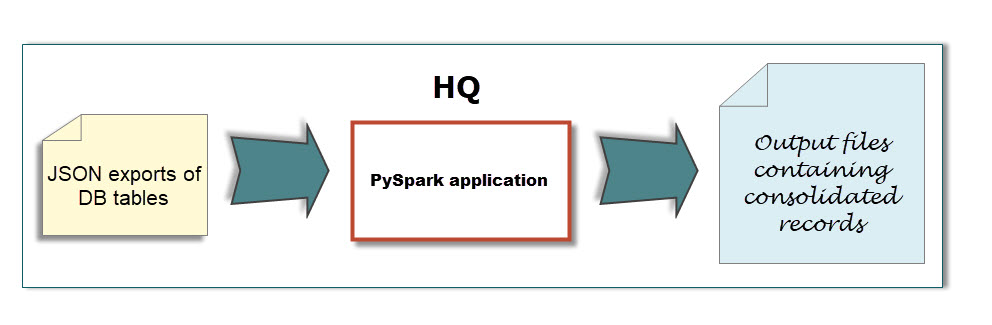
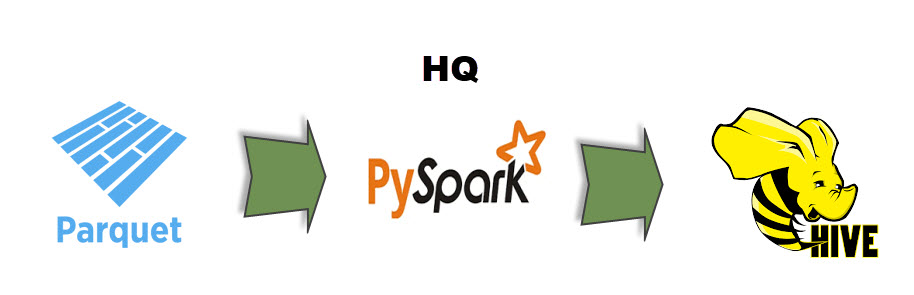
added functions for integrating with data warehouse

diff --git a/util/spark_utils.py b/util/spark_utils.py
@@ -46,16 +46,20 @@ class SparkContextManager:
                         orders_df: sql.DataFrame, order_items_df: sql.DataFrame) -> sql.DataFrame:
         """Create the `customer_orders_df` by joining the 3 dataframes."""
         self.logger.info("Now joining the three dataframes into `customer_orders_df`...")
+
+        # not all customers have order_id in orders table
+        # not all orders have order_item_id in order_items table
+
         customer_orders_df = customers_df. \
             join(
                 orders_df,
                 customers_df["customer_id"] == orders_df["order_customer_id"],
-                how="inner"
+                how="left"
             ). \
             join(
                 order_items_df,
                 orders_df["order_id"] == order_items_df["order_item_order_id"],
-                how="inner"
+                how="left"
             )
         self.logger.info("Joined dataframes into `customer_orders_df`!")
         return customer_orders_df
@@ -109,3 +113,37 @@ class SparkContextManager:
         consolidated_df = self.spark.read.parquet(constants.OUTPUT_FOLDER_PATH)
         self.logger.info("Successfully created dataframe from PARQUET files!")
         return consolidated_df
+
+    def flatten_df(self, consolidated_df: sql.DataFrame,
+                   columns_of_customers: list[str],
+                   columns_of_orders: list[str],
+                   columns_of_order_items: list[str]) -> sql.DataFrame:
+        """Flatten the consolidated dataframe."""
+        self.logger.info("Now reading received files into a dataframe...")
+
+        # when the field containing consolidated records are exploded, e.g. the field `orders`
+        # we need to prefix the parent field when referencing the sub-fields, e.g. the sub-field `orders.order_id`
+        # thus we need to alias the sub-fields so we can refer to them without the prefix, e.g. the sub-field `order_id`
+        aliased_orders_columns = [func.col(f"orders.{name}").alias(name) for name in columns_of_orders]
+        aliased_order_items_columns = [func.col(f"order_items.{name}").alias(name) for name in columns_of_order_items]
+
+        flattened_df = consolidated_df. \
+            select(*columns_of_customers, func.explode("orders").alias("orders")). \
+            select(*columns_of_customers, *aliased_orders_columns, func.explode("orders.order_items").alias("order_items")). \
+            select(*columns_of_customers, *columns_of_orders, *aliased_order_items_columns). \
+            orderBy("customer_id", "order_id")
+
+        self.logger.info("Flattening finished!")
+        return flattened_df
+
+    def split_df_into_multiple_dfs(self, flattened_df: sql.DataFrame,
+                   columns_of_customers: list[str],
+                   columns_of_orders: list[str],
+                   columns_of_order_items: list[str]) -> tuple[sql.DataFrame, sql.DataFrame, sql.DataFrame]:
+        """Split the flat dataframe into customers_df, orders_df and order_items_df."""
+        self.logger.info("Now splitting the flattened dataframe into 3 dataframes...")
+        customers_df = flattened_df.select(*columns_of_customers).distinct()
+        orders_df = flattened_df.select(*columns_of_orders).distinct().dropna()
+        order_items_df = flattened_df.select(*columns_of_order_items).distinct().dropna()
+        self.logger.info("splitting finished!")
+        return customers_df, orders_df, order_items_df

diff --git a/hq_app/one_time_setup.py b/hq_app/one_time_setup.py
@@ -1,51 +1,16 @@
-"""
-This module contains a script for one time database setup.
-WARNING: This script should be executed only once!!!
-"""
-from util import spark_utils as su
+"""This module contains a script for one time database setup."""
+from util import constants, hive_utils as hu, spark_utils as su
 
 
 def main() -> None:
     """Script entrypoint."""
     with su.SparkContextManager("one_time_setup") as scm:
-        scm.spark.sql("DROP DATABASE IF EXISTS retailer CASCADE;")
-        scm.spark.sql("CREATE DATABASE retailer;")
-        scm.spark.sql("USE retailer;")
-        create_table_scripts = [
-            """
-            CREATE TABLE customers (
-                customer_id long,
-                customer_fname string,
-                customer_lname string,
-                customer_email string,
-                customer_password string,
-                customer_street string,
-                customer_city string,
-                customer_state string,
-                customer_zipcode string
-            )   STORED AS TEXTFILE;
-            """,
-            """
-            CREATE TABLE orders (
-                order_id long,
-                order_customer_id long,
-                order_date string,
-                order_status string
-            )   STORED AS TEXTFILE;
-            """,
-            """
-            CREATE TABLE order_items (
-                order_item_id long,
-                order_item_order_id long,
-                order_item_product_id long,
-                order_item_product_price float,
-                order_item_quantity int,
-                order_item_subtotal float
-            )   STORED AS TEXTFILE;
-            """,
-        ]
-        for script in create_table_scripts:
-            scm.spark.sql(script)
+        hu.drop_database(scm.spark, constants.HIVE_DATABASE)
+        hu.create_database(scm.spark, constants.HIVE_DATABASE)
+        hu.use_database(scm.spark, constants.HIVE_DATABASE)
+        hu.create_customers_table(scm.spark, constants.HIVE_TABLE_CUSTOMERS)
+        hu.create_orders_table(scm.spark, constants.HIVE_TABLE_ORDERS)
+        hu.create_order_items_table(scm.spark, constants.HIVE_TABLE_ORDER_ITEMS)
 
 
 if __name__ == "__main__":

diff --git a/util/hive_utils.py b/util/hive_utils.py
@@ -1,0 +1,68 @@
+"""This module contains functions to interact with the Hve database."""
+from pyspark import sql
+
+
+def create_database(spark: sql.SparkSession, name: str) -> None:
+    """Create Hive database."""
+    spark.sql(f"CREATE DATABASE {name};")
+
+
+def drop_database(spark: sql.SparkSession, name: str) -> None:
+    """Drop Hive database."""
+    spark.sql(f"DROP DATABASE IF EXISTS {name} CASCADE;")
+
+
+def use_database(spark: sql.SparkSession, name: str) -> None:
+    """Use Hive database."""
+    spark.sql(f"USE {name};")
+
+
+def create_customers_table(spark: sql.SparkSession, name: str) -> None:
+    """Create Hive table for customers."""
+    query = f"""
+            CREATE TABLE {name} (
+                customer_id long,
+                customer_fname string,
+                customer_lname string,
+                customer_email string,
+                customer_password string,
+                customer_street string,
+                customer_city string,
+                customer_state string,
+                customer_zipcode string
+            )   STORED AS TEXTFILE;
+            """
+    spark.sql(query)
+
+
+def create_orders_table(spark: sql.SparkSession, name: str) -> None:
+    """Create Hive table for orders."""
+    query = f"""
+            CREATE TABLE {name} (
+                order_id long,
+                order_customer_id long,
+                order_date string,
+                order_status string
+            )   STORED AS TEXTFILE;
+            """
+    spark.sql(query)
+
+
+def create_order_items_table(spark: sql.SparkSession, name: str) -> None:
+    """Create Hive table for order_items."""
+    query = f"""
+            CREATE TABLE {name} (
+                order_item_id long,
+                order_item_order_id long,
+                order_item_product_id long,
+                order_item_product_price float,
+                order_item_quantity int,
+                order_item_subtotal float
+            )   STORED AS TEXTFILE;
+            """
+    spark.sql(query)
+
+
+def get_table_columns(spark: sql.SparkSession, name: str) -> list[str]:
+    """Get the columns of the Hive table."""
+    return spark.table(name).limit(0).columns

diff --git a/hq_app/main.py b/hq_app/main.py
@@ -1,0 +1,22 @@
+"""This is the HQ App's main module."""
+from util import constants, hive_utils as hu, spark_utils as su
+
+
+def main() -> None:
+    """Application entrypoint."""
+    with (su.SparkContextManager("hq_app") as scm):
+        consolidated_df = scm.read_received_files()
+
+        hu.use_database(scm.spark, constants.HIVE_DATABASE)
+        columns_of_customers = hu.get_table_columns(scm.spark, constants.HIVE_TABLE_CUSTOMERS)
+        columns_of_orders = hu.get_table_columns(scm.spark, constants.HIVE_TABLE_ORDERS)
+        columns_of_order_items = hu.get_table_columns(scm.spark, constants.HIVE_TABLE_ORDER_ITEMS)
+
+        flattened_df = scm.flatten_df(consolidated_df, columns_of_customers,
+                                      columns_of_orders, columns_of_order_items)
+        customers_df, orders_df, order_items_df = scm.split_df_into_multiple_dfs(
+            flattened_df, columns_of_customers, columns_of_orders, columns_of_order_items)
+
+
+if __name__ == "__main__":  # pragma: no cover
+    main()

diff --git a/util/constants.py b/util/constants.py
@@ -2,7 +2,12 @@ CUSTOMERS_FOLDER_PATH = r"..\data\customers"
 ORDERS_FOLDER_PATH = r"..\data\orders"
 ORDER_ITEMS_FOLDER_PATH = r"..\data\order_items"
 OUTPUT_FOLDER_PATH = r"..\data\output"
-TEST_DATA_FOLDER_PATH = r"..\data\test_data"
+TEST_DATA_FOLDER_PATH = r"data\test_data"
 
 SPARK_MASTER = "local[3]"
 SPARK_WAREHOUSE_DIR = r"..\data\warehouse"
+
+HIVE_DATABASE = "retailer"
+HIVE_TABLE_CUSTOMERS = "customers"
+HIVE_TABLE_ORDERS = "orders"
+HIVE_TABLE_ORDER_ITEMS = "order_items"

diff --git a/tests/hq_app/test_main.py b/tests/hq_app/test_main.py
@@ -4,10 +4,12 @@ from hq_app import main
 
 class TestHQApp(TestCase):
 
+    @mock.patch.object(main,"hu")
     @mock.patch.object(main.su,"SparkContextManager")
-    def test_main(self, mocked_scm):
+    def test_main(self, mocked_scm, _):
         ctx = mock.MagicMock()
         mocked_scm().__enter__.return_value = ctx
+        ctx.split_df_into_multiple_dfs.return_value = mock.Mock(), mock.Mock(), mock.Mock()
 
         main.main()
 

diff --git a/README.md b/README.md
@@ -18,12 +18,14 @@ overview of the retailer's operation:
 
 The retailer simulates sending the files to HQ by writing files to `data/output/`.
 
-HQ consumes the files set by the retailer.
+HQ consumes the files sent by the retailer.  HQ will split the consolidated data 
+sent by the retailer, effectively re-normalizing the data.  The normalized data is then
+saved to HQ's data warehouse.
 
 HQ has a PySpark application for its needs.  The following image presents an
 overview of HQ's operation:
 
-<img src="data/images/hq.jpg" width="200" height="150"/>
+<img src="data/images/hq.jpg" width="400" height="200"/>
 
 HQ writes files to `data/output/hq`.
 
